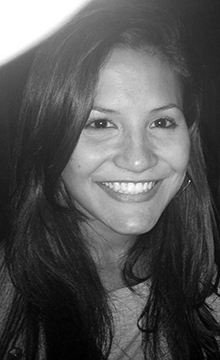
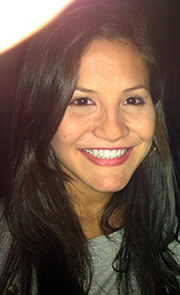
update header e foto

diff --git a/resource/css/main.css b/resource/css/main.css
@@ -1,1 +1,1 @@
-.cbp_tmtimeline,ol,ul{list-style:none}a,abbr,acronym,address,applet,article,aside,audio,b,big,blockquote,body,canvas,caption,center,cite,code,dd,del,details,dfn,div,dl,dt,em,embed,fieldset,figcaption,figure,footer,form,h1,h2,h3,h4,h5,h6,header,hgroup,html,i,iframe,img,ins,kbd,label,legend,li,mark,menu,nav,object,ol,output,p,pre,q,ruby,s,samp,section,small,span,strike,strong,sub,summary,sup,table,tbody,td,tfoot,th,thead,time,tr,tt,u,ul,var,video{margin:0;padding:0;border:0;font:inherit;vertical-align:baseline}article,aside,details,figcaption,figure,footer,header,hgroup,menu,nav,section{display:block}body{line-height:1}blockquote,q{quotes:none}blockquote:after,blockquote:before,q:after,q:before{content:'';content:none}table{border-collapse:collapse;border-spacing:0}@font-face{font-family:"SourceSansPro Light";src:url(/resource/fonts/SourceSansPro-Light/SourceSansPro-Light.eot);src:url(/resource/fonts/SourceSansPro-Light/SourceSansPro-Light.eot?#iefix) format("embedded-opentype"),url(/resource/fonts/SourceSansPro-Light/SourceSansPro-Light.ttf) format("truetype"),url(/resource/fonts/SourceSansPro-Light/SourceSansPro-Light.woff) format("woff"),url(/resource/fonts/SourceSansPro-Light/SourceSansPro-Light.woff2) format("woff2");font-style:normal;font-weight:400}@font-face{font-family:"SourceSansPro Bold";src:url(/resource/fonts/SourceSansPro-Bold/SourceSansPro-Bold.eot);src:url(/resource/fonts/SourceSansPro-Bold/SourceSansPro-Bold.eot?#iefix) format("embedded-opentype"),url(/resource/fonts/SourceSansPro-Bold/SourceSansPro-Bold.ttf) format("truetype"),url(/resource/fonts/SourceSansPro-Bold/SourceSansPro-Bold.woff) format("woff"),url(/resource/fonts/SourceSansPro-Bold/SourceSansPro-Bold.woff2) format("woff2");font-style:normal;font-weight:400}.clearfix:after,.clearfix:before{content:" ";display:table}.clearfix:after{clear:both}.container>header,.main{width:95%;max-width:69em;margin:0 auto;padding:0 1.875em}.container>header{padding:2.875em 1.875em 1.875em}.container>header h1{font-size:2.125em;line-height:1.3;margin:0;float:left;font-weight:400}.container>header span{display:block;font-weight:700;text-transform:uppercase;letter-spacing:.5em;padding:0 0 .6em .1em}.cbp_tmlabel [data-icon]:before,i{text-transform:none;letter-spacing:normal;word-wrap:normal;white-space:nowrap;direction:ltr;text-rendering:optimizeLegibility;-moz-osx-font-smoothing:grayscale;font-feature-settings:'liga'}.container>header nav{float:right}.container>header nav a{display:block;float:left;position:relative;width:2.5em;height:2.5em;background:#fff;border-radius:50%;color:transparent;margin:0 .1em;border:4px solid #47a3da;text-indent:-8000px}.container>header nav a:after{content:attr(data-info);color:#47a3da;position:absolute;width:600%;top:120%;text-align:right;right:0;opacity:0;pointer-events:none}.cbp_tmtimeline>li .cbp_tmicon,.icon-arrow-left:before,.icon-drop:before{speak:none;text-align:center;font-style:normal;-webkit-font-smoothing:antialiased}.container>header nav a:hover:after{opacity:1}.container>header nav a:hover{background:#47a3da}.icon-arrow-left:before,.icon-drop:before{font-family:fontawesome;position:absolute;top:0;width:100%;height:100%;font-weight:400;line-height:2;color:#47a3da;text-indent:8000px;padding-left:8px}.container>header nav a:hover:before{color:#fff}.cbp_tmtimeline{margin:30px 0 0;padding:0;position:relative}.cbp_tmtimeline:before{content:'';position:absolute;top:0;bottom:0;width:10px;background:#c4b3dc;left:55px;margin-left:-10px}.cbp_tmtimeline>li{position:relative}.cbp_tmtimeline>li .cbp_tmtime{display:block;width:25%;padding-right:100px;position:absolute}.cbp_tmtimeline>li .cbp_tmtime span{display:block;text-align:right}.cbp_tmtimeline>li .cbp_tmtime span:first-child{font-size:.9em;color:#bdd0db}.cbp_tmtimeline>li .cbp_tmtime span:last-child{font-size:2.9em;color:#3594cb}.cbp_tmtimeline>li:nth-child(odd) .cbp_tmtime span:last-child{color:#6cbfee}.cbp_tmtimeline>li .cbp_tmlabel{margin:0 0 15px 110px;background:#fff;color:#333;padding:2em;font-size:1.2em;font-weight:300;line-height:1.4;position:relative;border-radius:5px;border:1px solid #e6e6e6}.cbp_tmtimeline>li:nth-child(odd) .cbp_tmlabel{background:#fff}.cbp_tmtimeline>li .cbp_tmlabel h2{margin-top:0;padding:0 0 10px;border-bottom:1px solid rgba(80,80,80,.3);color:#412d67}.cbp_tmtimeline>li .cbp_tmlabel:after{right:100%;border:solid transparent;content:" ";height:0;width:0;position:absolute;pointer-events:none;border-right-color:#fff;border-width:10px;top:10px}.cbp_tmtimeline>li:nth-child(odd) .cbp_tmlabel:after{border-right-color:#fff}.cbp_tmtimeline>li .cbp_tmicon{width:40px;height:40px;font-family:ecoico;font-weight:400;font-variant:normal;text-transform:none;font-size:1.4em;line-height:40px;position:absolute;color:#fff;background:#725795;border-radius:50%;box-shadow:0 0 0 8px #c4b3dc;left:55px;top:0;margin:0 0 0 -25px}.cbp_tmlabel li a,.cbp_tmlabel p a,.mobile-menu li a{color:#725795;text-decoration:none}.cbp_tmlabel h2{font-family:'SourceSansPro Bold';font-size:32px}.cbp_tmlabel li,.cbp_tmlabel p{font-weight:700;padding-top:12px}.cbp_tmlabel li i,.cbp_tmlabel p i{vertical-align:middle}.cbp_tmlabel li{padding-left:22px;position:relative}.cbp_tmlabel [data-icon]:before{content:attr(data-icon);font-family:'Material Icons';font-weight:400;font-style:normal;font-size:1.2em;display:inline-block;vertical-align:middle;width:1em;height:1em;line-height:1;position:absolute;left:0;top:14px;-webkit-font-smoothing:antialiased}@media screen and (max-width:65.375em){.cbp_tmtimeline>li .cbp_tmtime span:last-child{font-size:1.5em}}@media screen and (max-width:47.2em){.cbp_tmtimeline:before{display:none}.cbp_tmtimeline>li .cbp_tmtime{width:100%;position:relative;padding:0 0 20px}.cbp_tmtimeline>li .cbp_tmtime span{text-align:left}.cbp_tmtimeline>li .cbp_tmlabel{margin:0 0 30px;padding:1em;font-weight:400;font-size:95%}.cbp_tmtimeline>li .cbp_tmlabel:after{right:auto;left:20px;border-right-color:transparent;border-bottom-color:#fff;top:-20px}.cbp_tmtimeline>li:nth-child(odd) .cbp_tmlabel:after{border-right-color:transparent;border-bottom-color:#fff}.cbp_tmtimeline>li .cbp_tmicon{position:relative;left:11px;margin:0 5px 25px 0}}.mobile-menu-icon{width:34px;height:18px;position:absolute;right:20px;top:10px;margin:5px auto 0 440px;-webkit-transform:rotate(0);-moz-transform:rotate(0);-o-transform:rotate(0);transform:rotate(0);-webkit-transition:.5s ease-in-out;-moz-transition:.5s ease-in-out;-o-transition:.5s ease-in-out;transition:.5s ease-in-out;cursor:pointer;z-index:20}.mobile-menu-icon span{display:block;position:absolute;height:3px;width:100%;background:#412d67;border-radius:1px;opacity:1;left:0;-webkit-transform:rotate(0);-moz-transform:rotate(0);-o-transform:rotate(0);transform:rotate(0);-webkit-transition:.2s ease-in-out;-moz-transition:.2s ease-in-out;-o-transition:.2s ease-in-out;transition:.2s ease-in-out}.mobile-menu-icon span:nth-child(1){top:0}.mobile-menu-icon span:nth-child(2),.mobile-menu-icon span:nth-child(3){top:8px}.mobile-menu-icon span:nth-child(4){top:16px}.mobile-menu-icon.open span{background:#412d67}.mobile-menu-icon.open span:nth-child(1){top:11px;width:0;left:50%}.mobile-menu-icon.open span:nth-child(2){-webkit-transform:rotate(45deg);-moz-transform:rotate(45deg);-o-transform:rotate(45deg);transform:rotate(45deg)}.mobile-menu-icon.open span:nth-child(3){-webkit-transform:rotate(-45deg);-moz-transform:rotate(-45deg);-o-transform:rotate(-45deg);transform:rotate(-45deg)}.mobile-menu-icon.open span:nth-child(4){top:11px;width:0;left:50%}.mobile-menu{opacity:0;position:fixed;top:50%;bottom:50%;height:0;overflow:hidden;right:0;left:0;background-color:#fff;transition:all .15s linear;z-index:10}.mobile-menu ul{display:none;height:100%;padding:40px 18px 0}.mobile-menu.open{opacity:1;top:0;bottom:-100px;height:100%}.mobile-menu li,.mobile-menu.open ul{display:block}.mobile-menu li.icon:before{content:'';width:24px;height:24px;background-repeat:no-repeat;display:inline-block;margin-right:11px}.mobile-menu li a{font-size:32px;line-height:2;font-weight:700}*{box-sizing:border-box;-webkit-font-smoothing:antialiased;-webkit-tap-highlight-color:transparent;outline:0}.valign-container .valign-guide{position:relative;width:1px;height:100%;display:inline-block;vertical-align:middle;margin-left:-1px}.valign-container .valign-element{display:inline-block;vertical-align:middle}body{font-family:'SourceSansPro Light',sans-serif;font-size:16px;background-color:#eee}body.menu-open{overflow:hidden}strong{font-family:'SourceSansPro Bold'}i{font-family:'Material Icons';font-weight:400;font-style:normal;font-size:24px;display:inline-block;width:1em;height:1em;line-height:1;-webkit-font-smoothing:antialiased}i.timeline-icon{margin-top:-4px;margin-left:-4px;color:#ffc830}.modal{display:none;position:fixed;top:0;right:0;bottom:0;left:0;width:100%;height:100;background-color:rgba(250,250,250,.9);text-align:center}.modal .vid-box{width:800px;height:450px;position:relative;display:none}.logo-big,.main-menu ul{display:block;margin:auto}.modal .close-vid{cursor:pointer;position:absolute;top:-42px;right:-42px}.modal .close-vid i{font-size:42px;color:#ff1656}.modal .modal-msg{font-size:26px;color:#ff1656;font-weight:700}.header-main{background:linear-gradient(45deg,#8443e6 0,#725795 75%);width:100%;height:420px;position:relative;padding-top:70px}.logo-big{width:540px;height:210px;background-image:url(/resource/img/logo-big.png);background-size:contain;font-size:0}.main-menu{position:absolute;width:100%;height:80px;background-color:rgba(0,0,0,.2);bottom:0}.main-menu ul{height:100%;width:100%;max-width:940px;padding:0 20px;text-align:right}.main-menu ul li{padding-left:40px}.main-menu ul li a{font-size:22px;color:#fff;text-decoration:none;font-weight:700}.wrap{position:relative;margin:auto;width:100%;max-width:940px;padding:60px 20px 0}.picture{width:200px;height:200px;border-radius:50%;background-image:url(/resource/img/mariana.jpg);background-size:cover;background-position-y:-30px;filter:grayscale(20%);border:3px solid #e0e0e0;box-shadow:inset -2px 5px 10px rgba(0,0,0,.5);position:absolute;top:-140px;left:20px}.mobile-menu-icon{display:none}@media screen and (max-width:755px){.header-main{height:260px;padding-top:34px}.logo-big{width:260px;height:101px;background-image:url(/resource/img/logo-small.png)}.main-menu{height:60px}.main-menu ul{display:none}.picture{width:150px;height:150px;top:-160px;left:initial;position:relative;margin:auto}.main{width:100%;padding:0;margin-top:-180px}.mobile-menu-icon{display:block}.cbp_tmlabel li,.cbp_tmlabel p{font-size:17px}}
+.cbp_tmtimeline,ol,ul{list-style:none}a,abbr,acronym,address,applet,article,aside,audio,b,big,blockquote,body,canvas,caption,center,cite,code,dd,del,details,dfn,div,dl,dt,em,embed,fieldset,figcaption,figure,footer,form,h1,h2,h3,h4,h5,h6,header,hgroup,html,i,iframe,img,ins,kbd,label,legend,li,mark,menu,nav,object,ol,output,p,pre,q,ruby,s,samp,section,small,span,strike,strong,sub,summary,sup,table,tbody,td,tfoot,th,thead,time,tr,tt,u,ul,var,video{margin:0;padding:0;border:0;font:inherit;vertical-align:baseline}article,aside,details,figcaption,figure,footer,header,hgroup,menu,nav,section{display:block}body{line-height:1}blockquote,q{quotes:none}blockquote:after,blockquote:before,q:after,q:before{content:'';content:none}table{border-collapse:collapse;border-spacing:0}@font-face{font-family:"SourceSansPro Light";src:url(/resource/fonts/SourceSansPro-Light/SourceSansPro-Light.eot);src:url(/resource/fonts/SourceSansPro-Light/SourceSansPro-Light.eot?#iefix) format("embedded-opentype"),url(/resource/fonts/SourceSansPro-Light/SourceSansPro-Light.ttf) format("truetype"),url(/resource/fonts/SourceSansPro-Light/SourceSansPro-Light.woff) format("woff"),url(/resource/fonts/SourceSansPro-Light/SourceSansPro-Light.woff2) format("woff2");font-style:normal;font-weight:400}@font-face{font-family:"SourceSansPro Bold";src:url(/resource/fonts/SourceSansPro-Bold/SourceSansPro-Bold.eot);src:url(/resource/fonts/SourceSansPro-Bold/SourceSansPro-Bold.eot?#iefix) format("embedded-opentype"),url(/resource/fonts/SourceSansPro-Bold/SourceSansPro-Bold.ttf) format("truetype"),url(/resource/fonts/SourceSansPro-Bold/SourceSansPro-Bold.woff) format("woff"),url(/resource/fonts/SourceSansPro-Bold/SourceSansPro-Bold.woff2) format("woff2");font-style:normal;font-weight:400}.clearfix:after,.clearfix:before{content:" ";display:table}.clearfix:after{clear:both}.container>header,.main{width:95%;max-width:69em;margin:0 auto;padding:0 1.875em}.container>header{padding:2.875em 1.875em 1.875em}.container>header h1{font-size:2.125em;line-height:1.3;margin:0;float:left;font-weight:400}.container>header span{display:block;font-weight:700;text-transform:uppercase;letter-spacing:.5em;padding:0 0 .6em .1em}.cbp_tmlabel [data-icon]:before,i{text-transform:none;letter-spacing:normal;word-wrap:normal;white-space:nowrap;direction:ltr;text-rendering:optimizeLegibility;-moz-osx-font-smoothing:grayscale;font-feature-settings:'liga'}.container>header nav{float:right}.container>header nav a{display:block;float:left;position:relative;width:2.5em;height:2.5em;background:#fff;border-radius:50%;color:transparent;margin:0 .1em;border:4px solid #47a3da;text-indent:-8000px}.container>header nav a:after{content:attr(data-info);color:#47a3da;position:absolute;width:600%;top:120%;text-align:right;right:0;opacity:0;pointer-events:none}.cbp_tmtimeline>li .cbp_tmicon,.icon-arrow-left:before,.icon-drop:before{speak:none;text-align:center;font-style:normal;-webkit-font-smoothing:antialiased}.container>header nav a:hover:after{opacity:1}.container>header nav a:hover{background:#47a3da}.icon-arrow-left:before,.icon-drop:before{font-family:fontawesome;position:absolute;top:0;width:100%;height:100%;font-weight:400;line-height:2;color:#47a3da;text-indent:8000px;padding-left:8px}.container>header nav a:hover:before{color:#fff}.cbp_tmtimeline{margin:30px 0 0;padding:0;position:relative}.cbp_tmtimeline:before{content:'';position:absolute;top:0;bottom:0;width:10px;background:#c4b3dc;left:55px;margin-left:-10px}.cbp_tmtimeline>li{position:relative}.cbp_tmtimeline>li .cbp_tmtime{display:block;width:25%;padding-right:100px;position:absolute}.cbp_tmtimeline>li .cbp_tmtime span{display:block;text-align:right}.cbp_tmtimeline>li .cbp_tmtime span:first-child{font-size:.9em;color:#bdd0db}.cbp_tmtimeline>li .cbp_tmtime span:last-child{font-size:2.9em;color:#3594cb}.cbp_tmtimeline>li:nth-child(odd) .cbp_tmtime span:last-child{color:#6cbfee}.cbp_tmtimeline>li .cbp_tmlabel{margin:0 0 15px 110px;background:#fff;color:#333;padding:2em;font-size:1.2em;font-weight:300;line-height:1.4;position:relative;border-radius:5px;border:1px solid #e6e6e6}.cbp_tmtimeline>li:nth-child(odd) .cbp_tmlabel{background:#fff}.cbp_tmtimeline>li .cbp_tmlabel h2{margin-top:0;padding:0 0 10px;border-bottom:1px solid rgba(80,80,80,.3);color:#412d67}.cbp_tmtimeline>li .cbp_tmlabel:after{right:100%;border:solid transparent;content:" ";height:0;width:0;position:absolute;pointer-events:none;border-right-color:#fff;border-width:10px;top:10px}.cbp_tmtimeline>li:nth-child(odd) .cbp_tmlabel:after{border-right-color:#fff}.cbp_tmtimeline>li .cbp_tmicon{width:40px;height:40px;font-family:ecoico;font-weight:400;font-variant:normal;text-transform:none;font-size:1.4em;line-height:40px;position:absolute;color:#fff;background:#725795;border-radius:50%;box-shadow:0 0 0 8px #c4b3dc;left:55px;top:0;margin:0 0 0 -25px}.cbp_tmlabel li a,.cbp_tmlabel p a,.mobile-menu li a{color:#725795;text-decoration:none}.cbp_tmlabel h2{font-family:'SourceSansPro Bold';font-size:32px}.cbp_tmlabel li,.cbp_tmlabel p{font-weight:700;padding-top:12px}.cbp_tmlabel li i,.cbp_tmlabel p i{vertical-align:middle}.cbp_tmlabel li{padding-left:22px;position:relative}.cbp_tmlabel [data-icon]:before{content:attr(data-icon);font-family:'Material Icons';font-weight:400;font-style:normal;font-size:1.2em;display:inline-block;vertical-align:middle;width:1em;height:1em;line-height:1;position:absolute;left:0;top:14px;-webkit-font-smoothing:antialiased}@media screen and (max-width:65.375em){.cbp_tmtimeline>li .cbp_tmtime span:last-child{font-size:1.5em}}@media screen and (max-width:47.2em){.cbp_tmtimeline:before{display:none}.cbp_tmtimeline>li .cbp_tmtime{width:100%;position:relative;padding:0 0 20px}.cbp_tmtimeline>li .cbp_tmtime span{text-align:left}.cbp_tmtimeline>li .cbp_tmlabel{margin:0 0 30px;padding:1em;font-weight:400;font-size:95%}.cbp_tmtimeline>li .cbp_tmlabel:after{right:auto;left:20px;border-right-color:transparent;border-bottom-color:#fff;top:-20px}.cbp_tmtimeline>li:nth-child(odd) .cbp_tmlabel:after{border-right-color:transparent;border-bottom-color:#fff}.cbp_tmtimeline>li .cbp_tmicon{position:relative;left:11px;margin:0 5px 25px 0}}.mobile-menu-icon{width:34px;height:18px;position:absolute;right:20px;top:20px;margin:5px auto 0 440px;-webkit-transform:rotate(0);-moz-transform:rotate(0);-o-transform:rotate(0);transform:rotate(0);-webkit-transition:.5s ease-in-out;-moz-transition:.5s ease-in-out;-o-transition:.5s ease-in-out;transition:.5s ease-in-out;cursor:pointer;z-index:50}.mobile-menu-icon span{display:block;position:absolute;height:3px;width:100%;background:#412d67;border-radius:1px;opacity:1;left:0;-webkit-transform:rotate(0);-moz-transform:rotate(0);-o-transform:rotate(0);transform:rotate(0);-webkit-transition:.2s ease-in-out;-moz-transition:.2s ease-in-out;-o-transition:.2s ease-in-out;transition:.2s ease-in-out}.mobile-menu-icon span:nth-child(1){top:0}.mobile-menu-icon span:nth-child(2),.mobile-menu-icon span:nth-child(3){top:8px}.mobile-menu-icon span:nth-child(4){top:16px}.mobile-menu-icon.open span{background:#412d67}.mobile-menu-icon.open span:nth-child(1){top:11px;width:0;left:50%}.mobile-menu-icon.open span:nth-child(2){-webkit-transform:rotate(45deg);-moz-transform:rotate(45deg);-o-transform:rotate(45deg);transform:rotate(45deg)}.mobile-menu-icon.open span:nth-child(3){-webkit-transform:rotate(-45deg);-moz-transform:rotate(-45deg);-o-transform:rotate(-45deg);transform:rotate(-45deg)}.mobile-menu-icon.open span:nth-child(4){top:11px;width:0;left:50%}.mobile-menu{opacity:0;position:fixed;top:50%;bottom:50%;height:0;right:0;left:0;background-color:#fff;transition:all .15s linear;z-index:40}.mobile-menu ul{display:none;height:100%;padding:40px 20px 0}.mobile-menu.open{opacity:1;top:0;bottom:-100px;height:100%}.mobile-menu li,.mobile-menu.open ul{display:block}.mobile-menu li.icon:before{content:'';width:24px;height:24px;background-repeat:no-repeat;display:inline-block;margin-right:11px}.mobile-menu li a{font-size:32px;line-height:2;font-weight:700}*{box-sizing:border-box;-webkit-font-smoothing:antialiased;-webkit-tap-highlight-color:transparent;outline:0}.valign-container .valign-guide{position:relative;width:1px;height:100%;display:inline-block;vertical-align:middle;margin-left:-1px}.valign-container .valign-element{display:inline-block;vertical-align:middle}body{font-family:'SourceSansPro Light',sans-serif;font-size:16px;background-color:#eee}body.menu-open{overflow:hidden}strong{font-family:'SourceSansPro Bold'}i{font-family:'Material Icons';font-weight:400;font-style:normal;font-size:24px;display:inline-block;width:1em;height:1em;line-height:1;-webkit-font-smoothing:antialiased}i.timeline-icon{margin-top:-4px;margin-left:-4px;color:#ffc830}.modal{display:none;position:fixed;top:0;right:0;bottom:0;left:0;width:100%;height:100;background-color:rgba(250,250,250,.9);text-align:center}.modal .vid-box{width:800px;height:450px;position:relative;display:none}.header-bg,.header-main{width:100%;height:420px}.logo-big,.main-menu ul{display:block;margin:auto}.modal .close-vid{cursor:pointer;position:absolute;top:-42px;right:-42px}.modal .close-vid i{font-size:42px;color:#ff1656}.modal .modal-msg{font-size:26px;color:#ff1656;font-weight:700}.header-main{background:linear-gradient(45deg,rgba(132,67,230,.8) 0,rgba(112,75,158,.8) 75%);position:relative;z-index:20;padding-top:70px}.header-bg{position:absolute;top:0;z-index:10;background-image:url(/resource/img/header-bg.jpg);background-size:cover;background-position:center -260px}.logo-big{width:540px;height:210px;background-image:url(/resource/img/logo-big.png);background-size:contain;font-size:0}.main-menu{position:absolute;width:100%;height:80px;background-color:rgba(59,30,97,.6);bottom:0}.main-menu ul{height:100%;width:100%;max-width:940px;padding:0 20px;text-align:right}.main-menu ul li{padding-left:40px}.main-menu ul li a{font-size:22px;color:#fff;text-decoration:none;font-weight:700}.wrap{position:relative;z-index:30;margin:auto;width:100%;max-width:940px;padding:60px 20px 0}.picture{width:180px;height:180px;border-radius:50%;background-image:url(/resource/img/mariana.jpg);background-size:cover;background-position-y:-30px;filter:grayscale(20%);border:3px solid #e0e0e0;box-shadow:inset -2px 5px 10px rgba(0,0,0,.5);position:absolute;top:-130px;left:30px}.mobile-menu-icon{display:none}@media screen and (max-width:1189px){.header-bg{background-position:center -160px}}@media screen and (max-width:1023px){.header-bg{background-position:center -100px}}@media screen and (max-width:919px){.header-bg{background-position:center}}@media screen and (max-width:755px){.header-main{height:260px;padding-top:34px}.header-bg{height:260px;background-position:center}.logo-big{width:260px;height:101px;background-image:url(/resource/img/logo-small.png)}.main-menu{height:60px}.main-menu ul{display:none}.picture{width:150px;height:150px;top:-160px;left:initial;position:relative;margin:auto}.main{width:100%;padding:0;margin-top:-180px}.mobile-menu-icon{display:block}.cbp_tmlabel li,.cbp_tmlabel p{font-size:17px}}

diff --git a/resource-dev/scss/_screen-big.scss b/resource-dev/scss/_screen-big.scss
@@ -1,10 +1,22 @@
 
 .header-main {
-  background: linear-gradient(45deg, $color2 0, $color1 75%);
+  background: linear-gradient(45deg, rgba(132,67,230,0.8) 0, rgba(112,75,158,0.8) 75%);
   width: 100%;
   height: 420px;
   position: relative;
+  z-index: 20;
   padding-top: 70px;
+}
+
+.header-bg {
+  position: absolute;
+  top: 0;
+  width: 100%;
+  height: 420px;
+  z-index: 10;
+  background-image: url(/resource/img/header-bg.jpg);
+  background-size: cover;
+  background-position: center -260px;
 }
 
 .logo-big {
@@ -21,7 +33,7 @@
   position: absolute;
   width: 100%;
   height: 80px;
-  background-color: rgba(0,0,0,0.2);
+  background-color: rgba(59, 30, 97, 0.6);
   bottom: 0;
   ul {
     display: block;
@@ -45,6 +57,7 @@
 
 .wrap {
   position: relative;
+  z-index: 30;
   margin: auto;
   width: 100%;
   max-width: 940px;
@@ -53,8 +66,8 @@
 }
 
 .picture {
-  width: 200px;
-  height: 200px;
+  width: 180px;
+  height: 180px;
   border-radius: 50%;
   background-image: url(/resource/img/mariana.jpg);
   background-size: cover;
@@ -65,10 +78,28 @@
   border: 3px solid #e0e0e0;
   box-shadow: inset -2px 5px 10px rgba(0,0,0,0.5);
   position: absolute;
-  top: -140px;
-  left: 20px;
+  top: -130px;
+  left: 30px;
 }
 
 .mobile-menu-icon {
   display: none;
+}
+
+@media screen and (max-width: 1189px) {
+  .header-bg {
+    background-position: center -160px;
+  }
+}
+
+@media screen and (max-width: 1023px) {
+  .header-bg {
+    background-position: center -100px;
+  }
+}
+
+@media screen and (max-width: 919px) {
+  .header-bg {
+    background-position: center;
+  }
 }

diff --git a/index.html b/index.html
@@ -27,6 +27,15 @@
 
 <body>
 
+  <div class="mobile-menu-icon">
+    <span></span>
+    <span></span>
+    <span></span>
+    <span></span>
+  </div>
+
+  <div class="header-bg"></div>
+
   <header class="header-main">
 
     <h1 class="logo-big">Mariana, revisora de textos</h1>
@@ -46,13 +55,6 @@
       </ul>
 
     </nav>
-
-    <div class="mobile-menu-icon">
-      <span></span>
-      <span></span>
-      <span></span>
-      <span></span>
-    </div>
     
   </header>
 
@@ -189,7 +191,7 @@
 
   <script src="/resource/js/tools.js"></script>
   <script src="/resource/js/main.js"></script>
-  <!-- <script src="//localhost:35729/livereload.js"></script> -->
+  <script src="//localhost:35729/livereload.js"></script>
   
   <script>
     (function(i,s,o,g,r,a,m){i['GoogleAnalyticsObject']=r;i[r]=i[r]||function(){

diff --git a/resource-dev/scss/helpers/_menu-mobile.scss b/resource-dev/scss/helpers/_menu-mobile.scss
@@ -3,7 +3,7 @@
   height: 18px;
   position: absolute;
   right: 20px;
-  top: 10px;
+  top: 20px;
   margin: 0 auto;
   margin-left: 440px;
   margin-top: 5px;
@@ -16,7 +16,7 @@
   -o-transition: .5s ease-in-out;
   transition: .5s ease-in-out;
   cursor: pointer;
-  z-index: 20;
+  z-index: 50;
   span {
     display: block;
     position: absolute;
@@ -85,11 +85,11 @@
   left: 0;
   background-color: #fff;
   transition: all 0.15s linear;
-  z-index: 10;
+  z-index: 40;
   ul {
     display: none;
     height: 100%;
-    padding: 0 18px;
+    padding: 0 20px;
     padding-top: 40px;
   }
   &.open {

diff --git a/resource-dev/scss/_screen-small.scss b/resource-dev/scss/_screen-small.scss
@@ -5,6 +5,11 @@
     padding-top: 34px;
   }
 
+  .header-bg {
+    height: 260px;
+    background-position: center;
+  }
+
   .logo-big {
     width: 260px;
     height: 101px;
